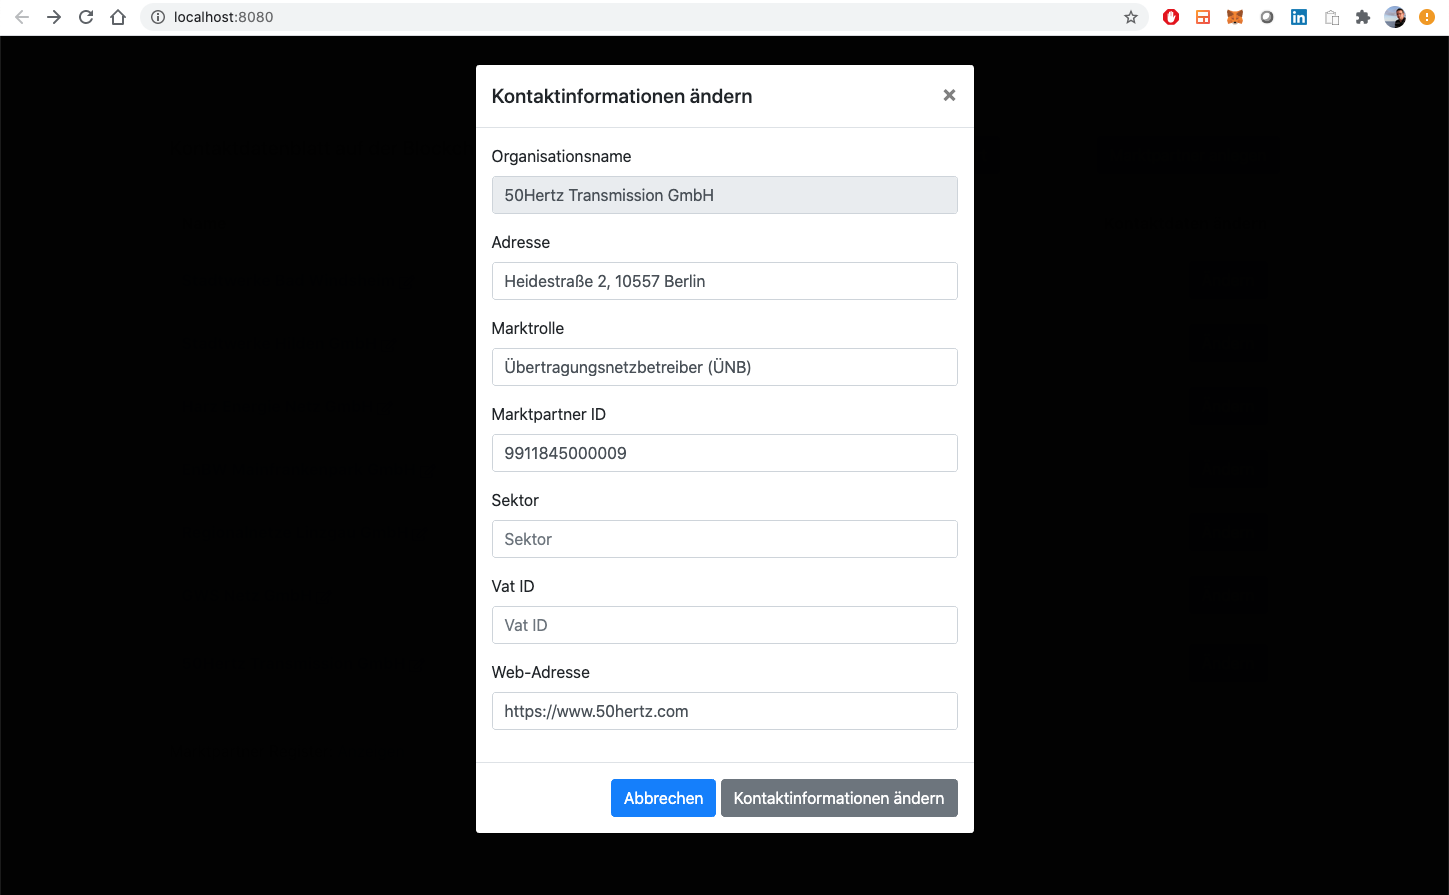
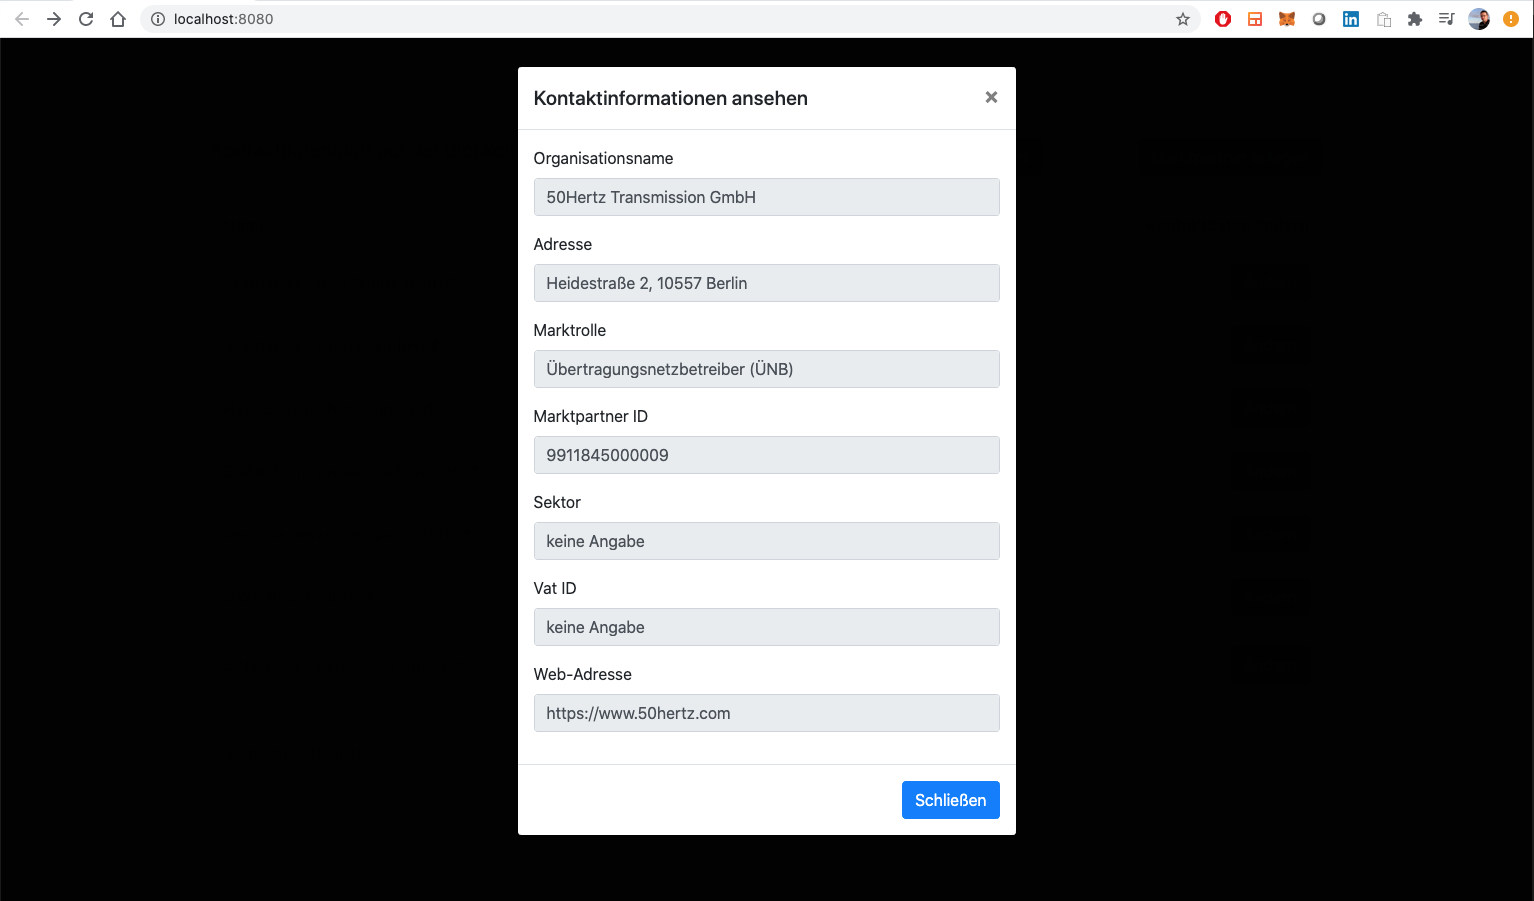
Fix contact information modal mode

Changed region(s): [[0.0, 0.0, 1.0, 0.9352]]

diff --git a/webapp/src/components/Register.js b/webapp/src/components/Register.js
@@ -30,10 +30,17 @@ const Register = props => {
     createOrUpdateContactInformationModal,
     setCreateOrUpdateContactInformationModal
   ] = useState(false);
-  const toggleCreateOrUpdateContactInformationModal = () =>
+  const [
+    createOrUpdateContactInformationReadOnly,
+    setCreateOrUpdateContactInformationReadOnly
+  ] = useState(false);
+  const toggleCreateOrUpdateContactInformationModal = readOnly => {
+    console.log(readOnly);
+    setCreateOrUpdateContactInformationReadOnly(readOnly);
     setCreateOrUpdateContactInformationModal(
       !createOrUpdateContactInformationModal
     );
+  };
 
   const [data, updateData] = useState();
   useEffect(() => {
@@ -137,7 +144,9 @@ const Register = props => {
                       <td className="text-md-center align-middle">
                         <Button
                           color={marketPartner.verified ? "success" : "warning"}
-                          onClick={toggleCreateOrUpdateContactInformationModal}
+                          onClick={() =>
+                            toggleCreateOrUpdateContactInformationModal(true)
+                          }
                         >
                           Anzeigen
                         </Button>{" "}
@@ -170,7 +179,9 @@ const Register = props => {
                       <td className="text-md-right align-middle">
                         <Button
                           color="primary"
-                          onClick={toggleCreateOrUpdateContactInformationModal}
+                          onClick={() =>
+                            toggleCreateOrUpdateContactInformationModal(false)
+                          }
                         >
                           Ändern
                         </Button>{" "}
@@ -180,6 +191,7 @@ const Register = props => {
                           headquartersAddress={
                             marketPartner.headquartersAddress
                           }
+                          readOnly={createOrUpdateContactInformationReadOnly}
                           marketRole={marketPartner.marketRole}
                           marktpartnerId={marketPartner.marktpartnerId}
                           sector={marketPartner.sector}
@@ -187,7 +199,6 @@ const Register = props => {
                           webAddress={marketPartner.webAddress}
                           isOpen={createOrUpdateContactInformationModal}
                           toggle={toggleCreateOrUpdateContactInformationModal}
-                          readOnly={false}
                         />
                       </td>
                     </tr>
